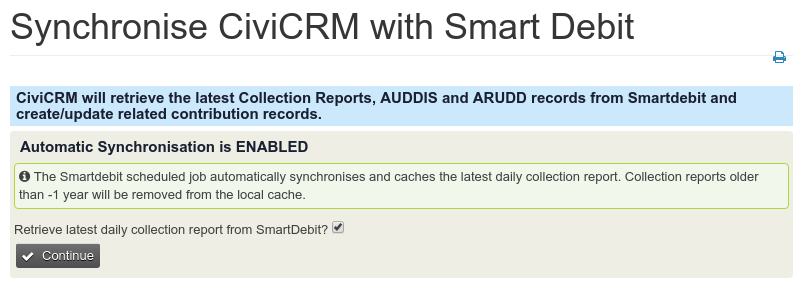
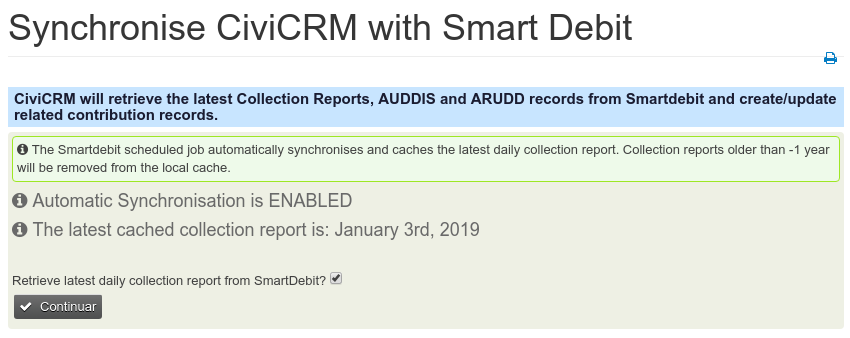
Add latest cached collection report date to manual sync initial page

diff --git a/CRM/Smartdebit/Form/DataSource.php b/CRM/Smartdebit/Form/DataSource.php
@@ -44,6 +44,11 @@ class CRM_Smartdebit_Form_DataSource extends CRM_Core_Form {
     }
     catch (Exception $e) {}
 
+    $latestReport = CRM_Smartdebit_CollectionReports::getReports(['limit' => 1]);
+    if (count($latestReport) > 0) {
+      $this->assign('latestReportDate', CRM_Utils_Array::first($latestReport)['collection_date']);
+    }
+
     $this->add('checkbox', 'retrieve_collectionreport', ts('Retrieve latest daily collection report from SmartDebit?'));
     $this->addButtons(array(
         array(
